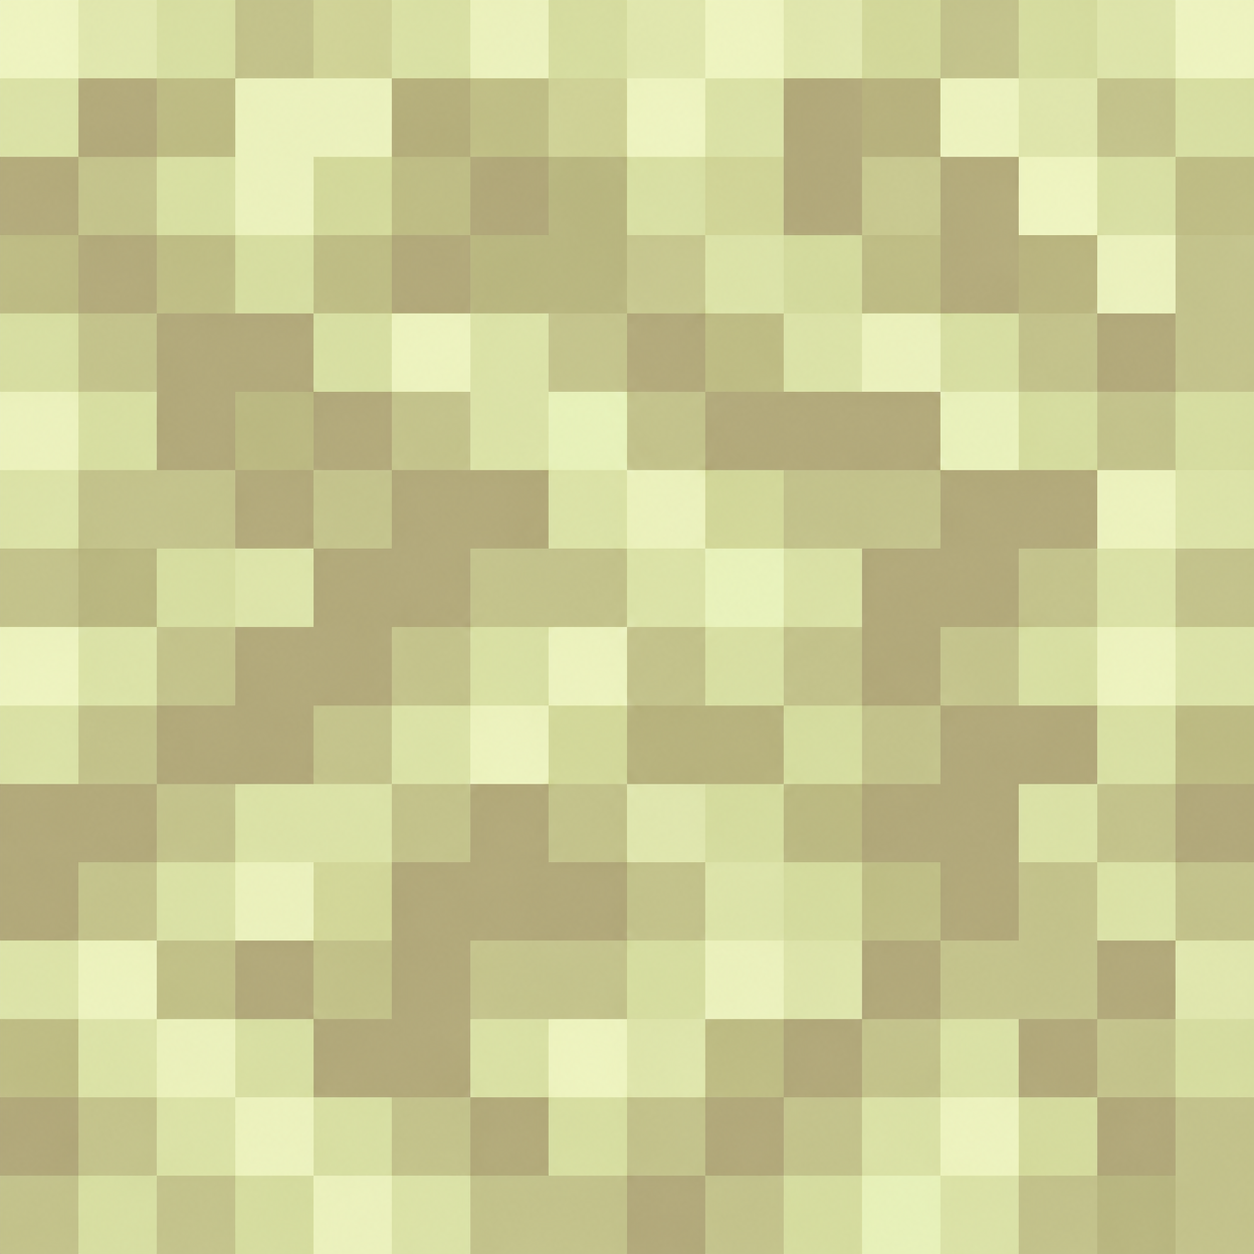
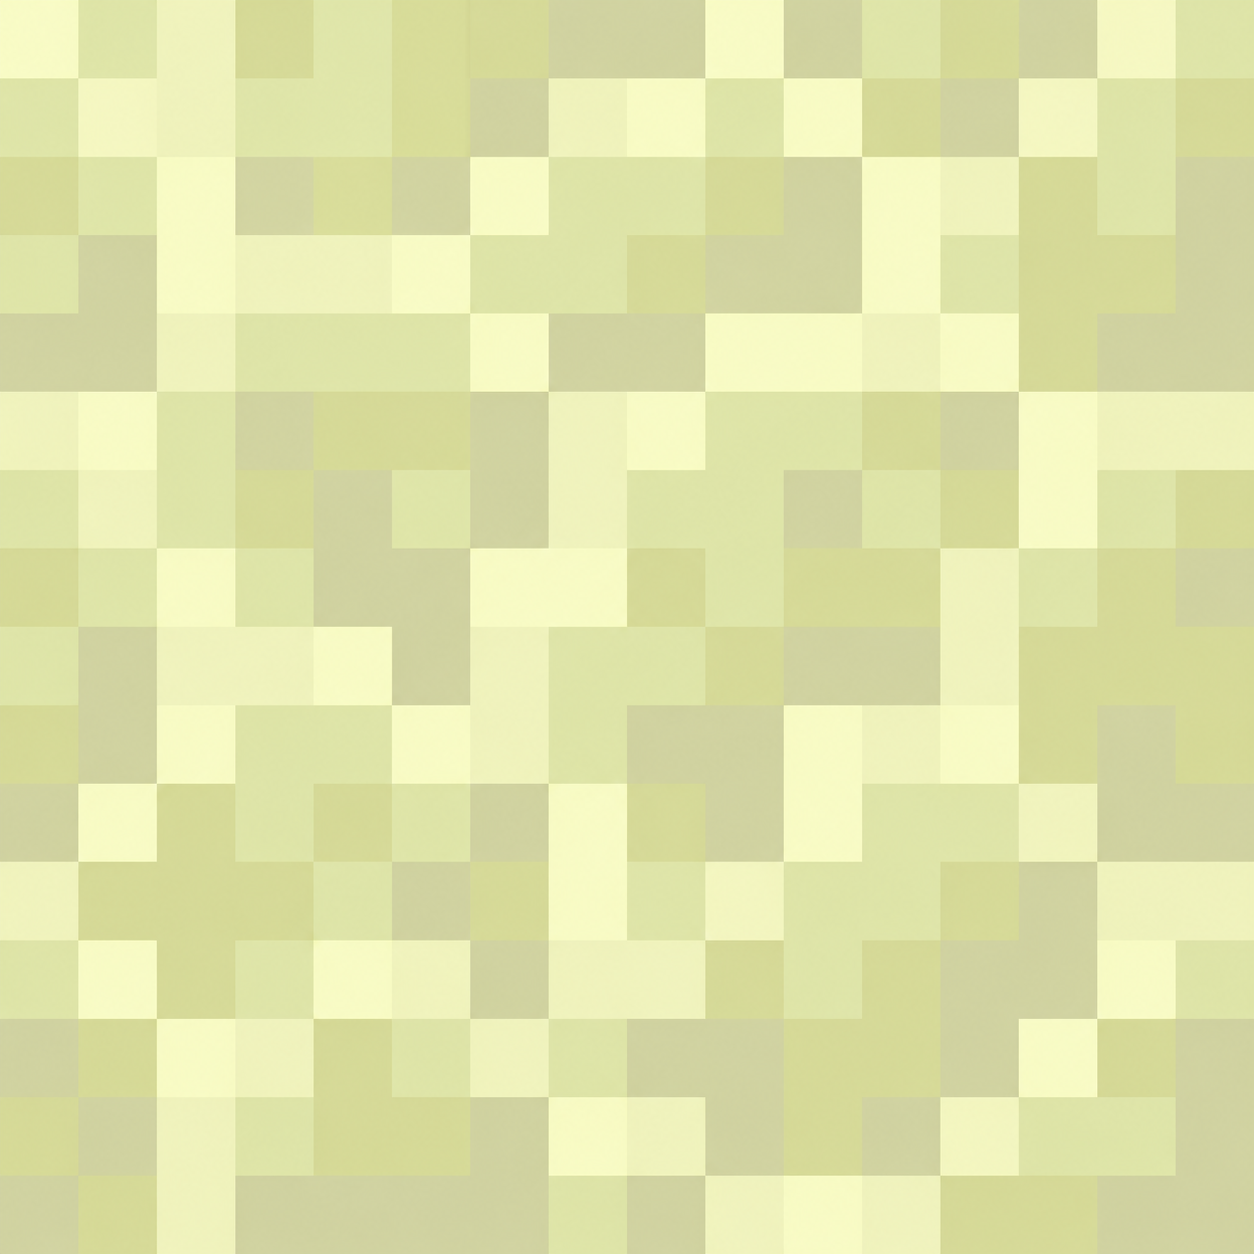
v0.4.0: reference-based stone, end stone, netherrack and railway materials

diff --git a/index.html b/index.html
@@ -1,7 +1,7 @@
 <!doctype html>
-<html lang="ja"><head><meta charset="utf-8"><meta name="viewport" content="width=device-width,initial-scale=1,viewport-fit=cover"><meta name="theme-color" content="#24211e"><title>マイクラレールズ REN EDITION — トロッコでにげろ！</title><link rel="stylesheet" href="style.css?v=0.3.9"><meta name="application-name" content="マイクラレールズ"><meta name="apple-mobile-web-app-title" content="マイクラレールズ"><meta name="apple-mobile-web-app-capable" content="yes"><meta name="apple-mobile-web-app-status-bar-style" content="black-translucent"><link rel="icon" type="image/png" href="assets/app-icon.png?v=0.3.9"><link rel="apple-touch-icon" href="assets/app-icon.png?v=0.3.9"><link rel="manifest" href="manifest.webmanifest?v=0.3.9"></head>
+<html lang="ja"><head><meta charset="utf-8"><meta name="viewport" content="width=device-width,initial-scale=1,viewport-fit=cover"><meta name="theme-color" content="#24211e"><title>マイクラレールズ REN EDITION — トロッコでにげろ！</title><link rel="stylesheet" href="style.css?v=0.4.0"><meta name="application-name" content="マイクラレールズ"><meta name="apple-mobile-web-app-title" content="マイクラレールズ"><meta name="apple-mobile-web-app-capable" content="yes"><meta name="apple-mobile-web-app-status-bar-style" content="black-translucent"><link rel="icon" type="image/png" href="assets/app-icon.png?v=0.4.0"><link rel="apple-touch-icon" href="assets/app-icon.png?v=0.4.0"><link rel="manifest" href="manifest.webmanifest?v=0.4.0"></head>
 <body data-screen="title">
-<div class="version-badge" aria-label="バージョン 0.3.9">v0.3.9</div>
+<div class="version-badge" aria-label="バージョン 0.4.0">v0.4.0</div>
 <section id="title-screen" class="menu-screen" aria-label="タイトル画面">
   <div class="title-logo"><h1><img src="assets/title-logo-transparent.png" alt="マイクラレールズ" width="1024" height="411"></h1><p class="title-edition">REN EDITION</p><span class="title-splash"><span>Moving by Minecart</span></span></div>
   <nav class="title-menu" aria-label="メインメニュー">
@@ -86,4 +86,4 @@
   </div>
 </section>
 </div>
-</main><script type="module" src="app.mjs?v=0.3.9"></script></body></html>
+</main><script type="module" src="app.mjs?v=0.4.0"></script></body></html>

diff --git a/style.css b/style.css
@@ -297,8 +297,8 @@ body[data-world="end"] .play-console .tile.empty{background:repeating-linear-gra
 .world-symbol{width:64px;height:64px;object-fit:contain;clip-path:polygon(50% .7%,94.7% 22.7%,94.7% 76.7%,50% 99.3%,5.3% 76.7%,5.3% 22.7%);image-rendering:pixelated}
 /* Preserve each world material after a rail locks; the rivet still marks fixed panels. */
 body[data-world="grass"]{--floor-texture:url("assets/floor-grass.png?v=0.3.9");--floor-color:#559333}
-body[data-world="mine"]{--floor-texture:url("assets/floor-mine.png");--floor-color:#737373}
-body[data-world="nether"]{--floor-texture:url("assets/floor-nether.png");--floor-color:#723b3b}
-body[data-world="end"]{--floor-texture:url("assets/floor-end.png");--floor-color:#c9ca8a}
+body[data-world="mine"]{--floor-texture:url("assets/floor-mine.png?v=0.4.0");--floor-color:#737373}
+body[data-world="nether"]{--floor-texture:url("assets/floor-nether.png?v=0.4.0");--floor-color:#723b3b}
+body[data-world="end"]{--floor-texture:url("assets/floor-end.png?v=0.4.0");--floor-color:#c9ca8a}
 body[data-world] .play-console button.tile:not(.placement-slot),body[data-world] .play-console button.tile:not(.placement-slot):hover{background:var(--floor-color) var(--floor-texture) center / cover;background-blend-mode:normal}
 body[data-world] .queue-piece{background:var(--floor-color) var(--floor-texture) center / cover}
